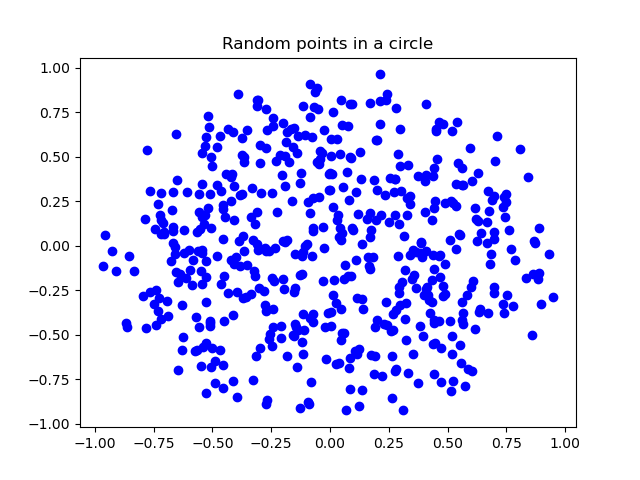
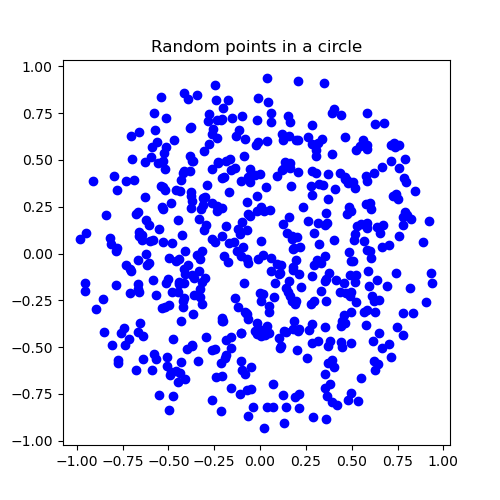
lab6

Changed region(s): [[0.03, 0.0625, 0.93, 0.9375]]

diff --git a/lab6/P1-3.py b/lab6/P1-3.py
@@ -1,0 +1,98 @@
+#!/usr/bin/env python3
+
+import argparse
+import matplotlib.pyplot as plt
+import scipy.integrate as spi
+import scipy.special as sps
+import numpy as np
+
+
+def parse_args():
+    parser = argparse.ArgumentParser()
+    parser.add_argument('-f', '--function', type=int,
+                        default=1, help='Function number')
+    return parser.parse_args()
+
+
+def f1(x):
+    return 1/(1+x**2)
+
+
+def f2(x):
+    return 1/x
+
+
+def f3(x):
+    return np.sin(x**2)
+
+
+def make_points_in_range(func, range_x: range):
+    x = np.linspace(range_x[0], range_x[1], 100)
+    y = func(x)
+    return x, y
+
+
+def plot(func, x, y, title):
+    plt.plot(x, y)
+    plt.xlabel('x')
+    plt.ylabel('y')
+    plt.title(title)
+    plt.savefig(f'plots/P1-3_{title.strip("$\\")}.png')
+    plt.show()
+
+
+def integrate(intgrationmethod, func, x, y):
+    match intgrationmethod:
+        case 'quad':
+            return spi.quad(func, x[0], x[-1])
+        case 'trapezoid':
+            return spi.trapezoid(y, x)
+        case 'simpson':
+            return spi.simpson(y, x)
+        case 'gauss':
+            return spi.fixed_quad(func, x[0], x[-1])
+        case _:
+            return None
+
+
+def plot_and_integrate(func, xrange, title, analytical_result=None):
+    x, y = make_points_in_range(func, xrange)
+    plot(func, x, y, title)
+    print(f'analytical: {analytical_result}')
+    quad_result = integrate('quad', func, x, y)[0]
+    print(f'quad: {quad_result}, residual: {abs(quad_result - analytical_result)}')
+    trapezoid_result = integrate('trapezoid', func, x, y)
+    print(f'trapezoid: {trapezoid_result}, residual: {abs(trapezoid_result - analytical_result)}')
+    simpson_result = integrate('simpson', func, x, y)
+    print(f'simpson: {simpson_result}, residual: {abs(simpson_result - analytical_result)}')
+    gauss_result = integrate('gauss', func, x, y)[0]
+    print(f'gauss: {gauss_result}, residual: {abs(gauss_result - analytical_result)}')
+
+
+def main():
+    args = parse_args()
+    match args.function:
+        case 1:
+            func = f1
+            xrange = [0, 5]
+            title = '$\\frac{1}{1+x^2}$'
+            analytical_result = np.arctan(5)
+            plot_and_integrate(func, xrange, title, analytical_result)
+        case 2:
+            func = f2
+            xrange = [1, 2]
+            title = '$\\frac{1}{x}$'
+            analytical_result = np.log(2)
+            plot_and_integrate(func, xrange, title, analytical_result)
+        case 3:
+            func = f3
+            xrange = [0, 1]
+            title = '$\\sin(x^2)$'
+            analytical_result = np.sqrt(np.pi/2) * sps.fresnel(np.sqrt(2/np.pi))[0]
+            plot_and_integrate(func, xrange, title, analytical_result)
+        case _:
+            print('Invalid function number')
+
+
+if __name__ == '__main__':
+    main()

diff --git a/lab5/p1.py b/lab5/p1.py
@@ -50,7 +50,7 @@ def generate_uniformly_distributed_circle_points(n, onSurface=False):
 
 
 def plot_points3d(points, title):
-    fig = plt.figure()
+    fig = plt.figure(figsize=(5, 5))
     ax = fig.add_subplot(111, projection='3d')
     for point in points:
         ax.scatter(point[0], point[1], point[2], c='b', marker='o')
@@ -62,10 +62,24 @@ def plot_points3d(points, title):
 
 
 def plot_points2d(points, title):
-    fig = plt.figure()
+    fig = plt.figure(figsize=(5, 5))
     ax = fig.add_subplot(111)
     for point in points:
         ax.scatter(point[0], point[1], c='b', marker='o')
+    plt.title(title)
+    plt.savefig(f"plots/P1/{title}.png")
+
+
+def plot_2set_points2d(points, title):
+    fig = plt.figure(figsize=(5, 5))
+    ax = fig.add_subplot(111)
+    # only plot z = 0 and z = 0.5
+    points1 = [point for point in points if point[2] >= -0.1 and point[2] <= 0.1]
+    points2 = [point for point in points if point[2] >= 0.4 and point[2] <= 0.6]
+
+    ax.scatter([point[0] for point in points1], [point[1] for point in points1], c='b', marker='o', label=f"z = 0")
+    ax.scatter([point[0] for point in points2], [point[1] for point in points2], c='r', marker='o', label=f"z = 0.5")
+    plt.legend()
     plt.title(title)
     plt.savefig(f"plots/P1/{title}.png")
 
@@ -82,6 +96,9 @@ def main():
     plot_points3d(points, "Random points on the surface of a sphere")
     points = generate_uniformly_distributed_circle_points(n, onSurface=True)
     plot_points2d(points, "Random points on the surface of a circle")
+    n = 10000
+    points = generate_uniformly_distributed_sphere_points(n, onSurface=True)
+    plot_2set_points2d(points, "Random points in two circles")
 
 
 if __name__ == "__main__":

diff --git a/lab4/buffon_monte_carlo.py b/lab4/buffon_monte_carlo.py
@@ -13,7 +13,7 @@ import pandas as pd
 # sig figs will determine the rounding of decimals for needles that cross the lines, keep to multiples of 10
 # model is generally more accurate with large sample size and sig_fig but at the cost of run time
 
-sample_size = 1000
+sample_size = 100000
 sig_figs = 10000
 
 # initializing plot ====================================================================================================
@@ -55,7 +55,7 @@ for n in range(0, sample_size):
         crossed = False
 
     new_needle = [x, y, x_end, y_end, crossed]
-    print(new_needle)
+    # print(new_needle)
 
     needles.loc[n] = new_needle
 
@@ -73,15 +73,15 @@ for n in range(0, 4):
 
 # estimating pi ========================================================================================================
 
-crossed_count = len(needles[needles['crossed_line'] == True])
+# crossed_count = len(needles[needles['crossed_line'] == True])
 
-pi_est = (2*sample_size)/crossed_count
+# pi_est = (2*sample_size)/crossed_count
 
-diff = pi_est-np.pi
+# diff = pi_est-np.pi
 
-text = 'Estimated value of pi: {}, Actual Value of pi: {}, Diff ={}'.format(
-    pi_est, np.pi, diff)
-fig.text(.01, .9, text)
+# text = 'Estimated value of pi: {}, Actual Value of pi: {}, Diff ={}'.format(
+#     pi_est, np.pi, diff)
+# fig.text(.01, .9, text)
 
 # calling the plot =====================================================================================================
-plt.show()
+# plt.show()

diff --git a/lab5/p0/src/p1.rs b/lab5/p0/src/p1.rs
@@ -52,8 +52,8 @@ fn three() -> Vec<DebitCard> {
     let mut rng = rand::rng();
     let mut cards: Vec<DebitCard> = Vec::new();
     for _ in 0..3 {
-        let card_number = (0..16).map(|_| rng.random_range(0..9).to_string()).collect::<String>();
-        let security_code = (0..3).map(|_| rng.random_range(0..9).to_string()).collect::<String>();
+        let card_number = (0..16).map(|_| rng.random_range(0..=9).to_string()).collect::<String>();
+        let security_code = (0..3).map(|_| rng.random_range(0..=9).to_string()).collect::<String>();
         cards.push(DebitCard { card_number, security_code });
     }
     cards
@@ -61,14 +61,14 @@ fn three() -> Vec<DebitCard> {
 
 #[derive(Debug)]
 struct LotteryTicket {
-    numbers: String
+    numbers: Vec<i32>
 }
 
 fn four() -> Vec<LotteryTicket> {
     let mut rng = rand::rng();
     let mut numbers: Vec<LotteryTicket> = Vec::new();
     for _ in 0..200 {
-        let number = (0..6).map(|_| rng.random_range(0..9).to_string()).collect::<String>();
+        let number = (0..6).map(|_| rng.random_range(0..=99)).collect();
         numbers.push(LotteryTicket { numbers: number });
     }
     numbers
